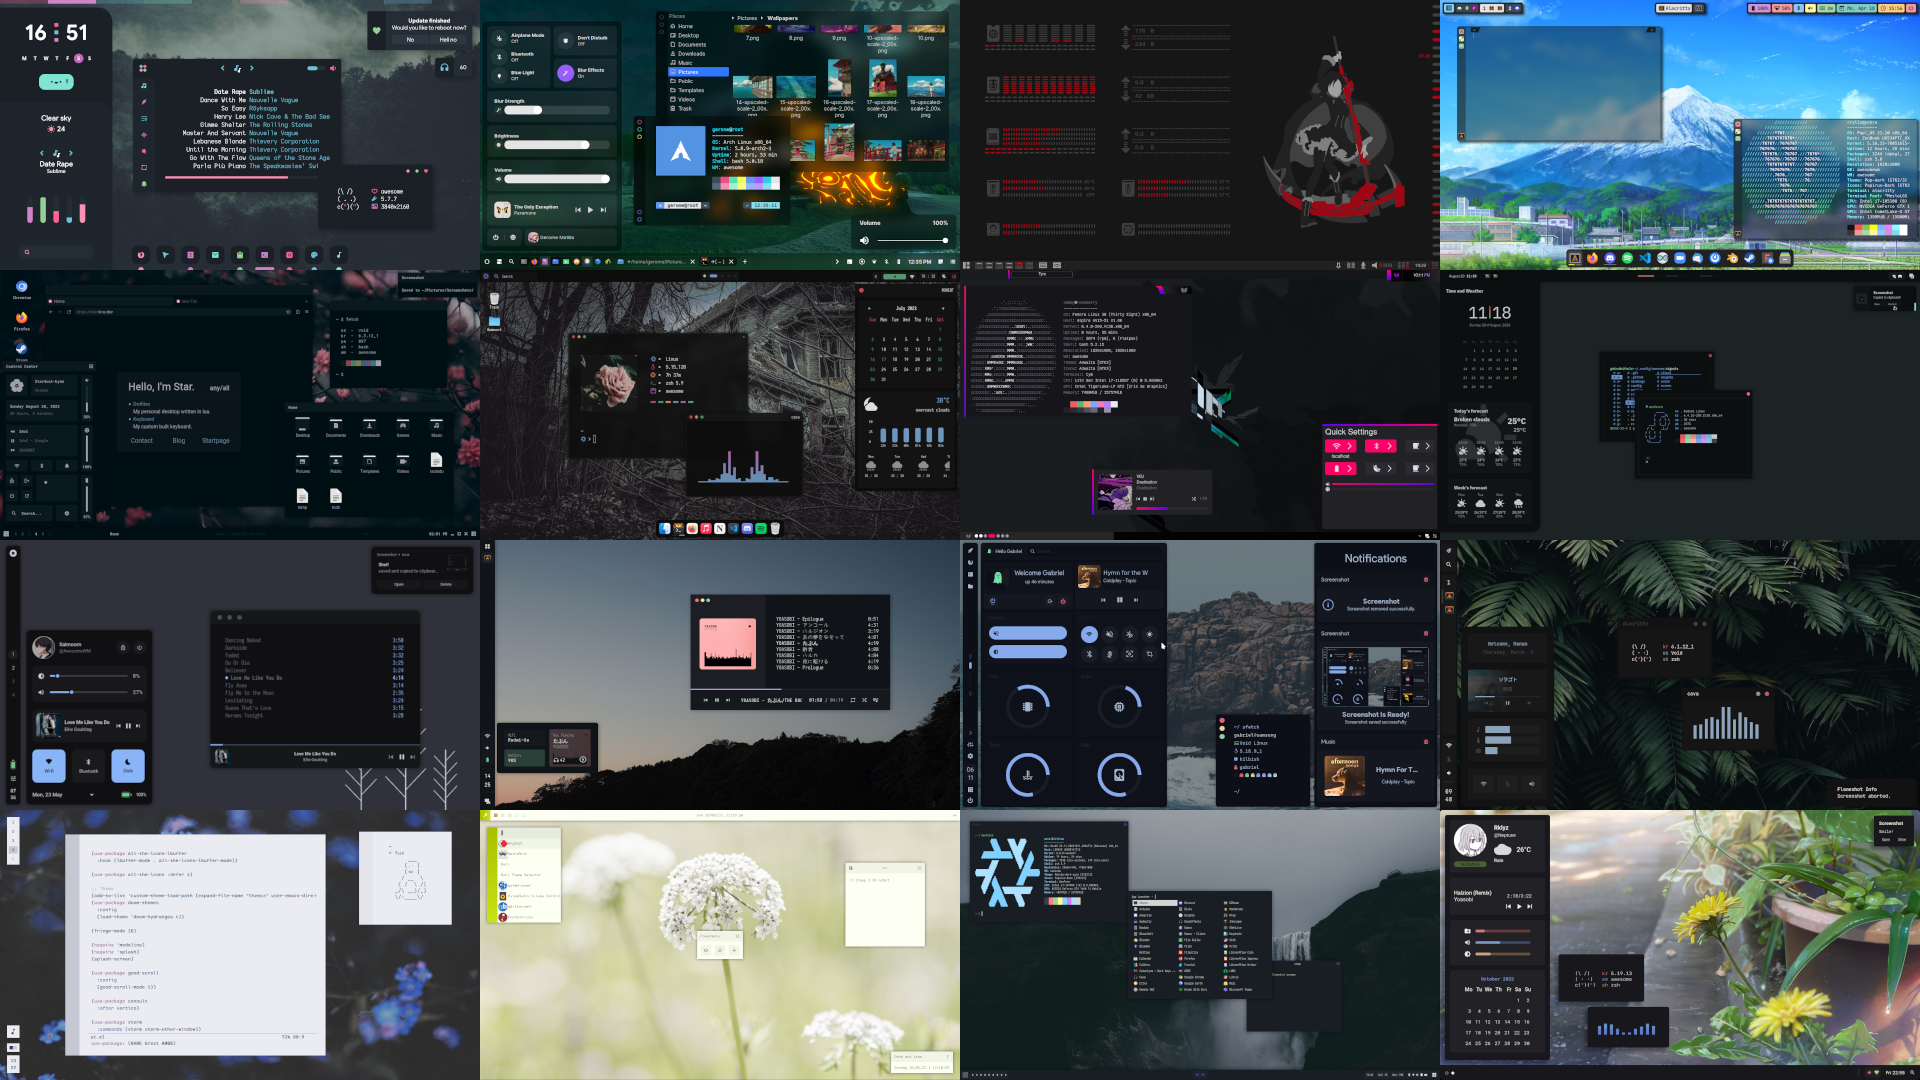
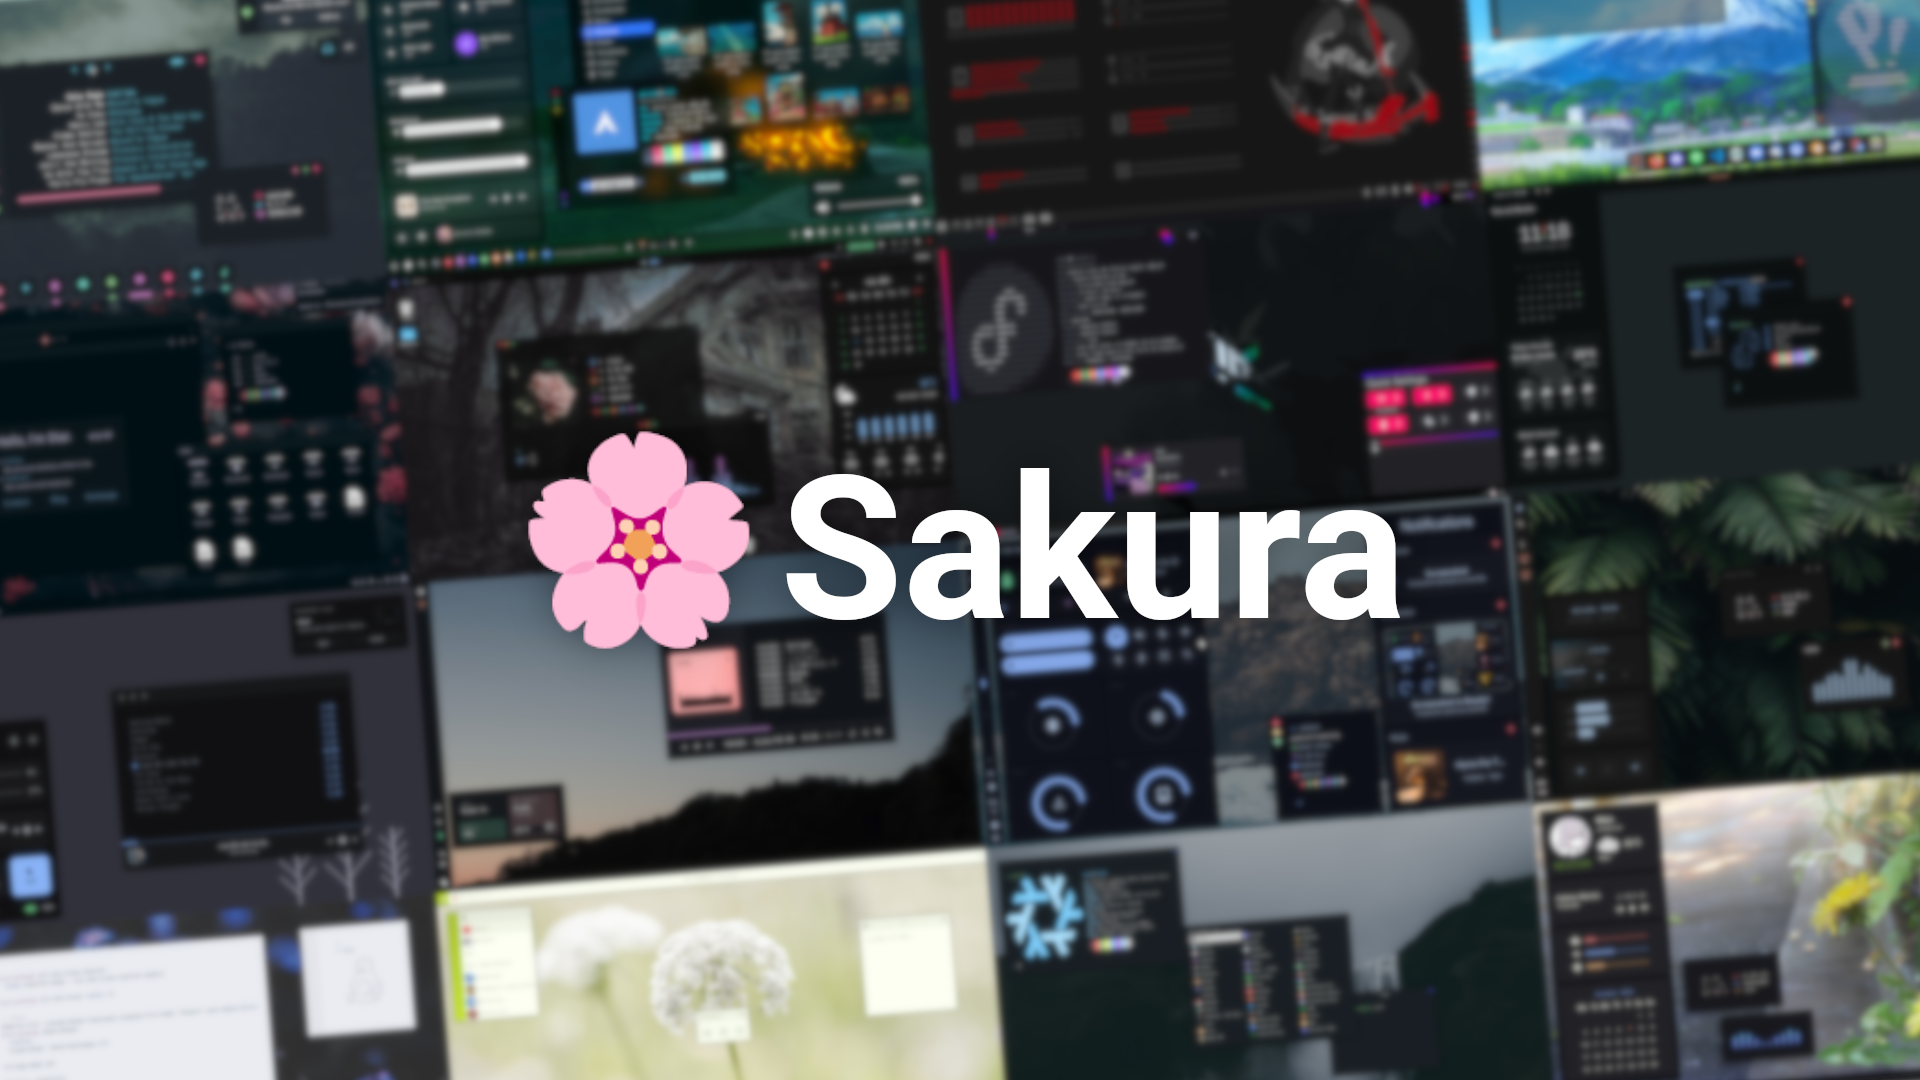
updated thumbnails

diff --git a/index.html b/index.html
@@ -5,7 +5,7 @@
 		<meta content="🌸 Sakura - Home" property="og:title"/>
 		<meta content="Stardust-kyun's personal website and blog." property="og:description"/>
 		<meta content="https://star.is-a.dev" property="og:url"/>
-		<meta content="https://star.is-a.dev/blog/dotimg/sakura.png" property="og:image"/>
+		<meta content="https://star.is-a.dev/src/thumbnail.png" property="og:image"/>
 		<meta content="#F199AA" data-react-helmet="true" name="theme-color"/>
 		<meta name="twitter:card" content="summary_large_image">
 		<title>Home</title>
